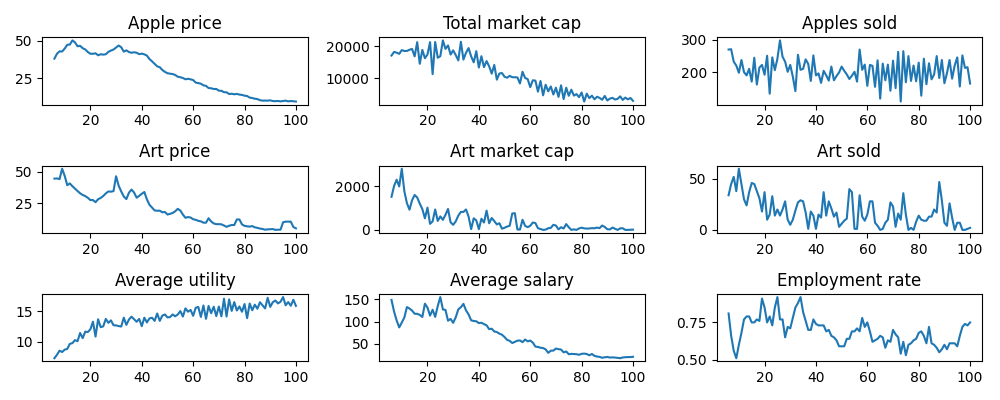
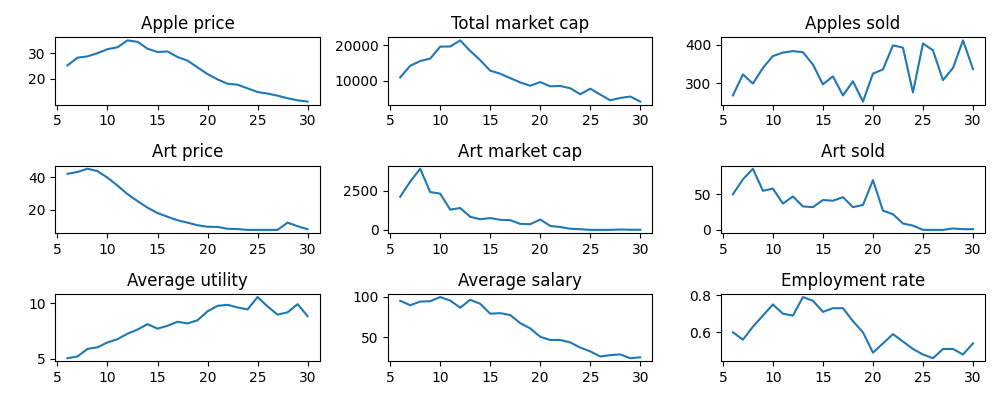
Edited cons + depr funcs, added construction pipeline

diff --git a/Agents.py b/Agents.py
@@ -5,33 +5,33 @@ class good():
 
     def __init__(self, ID, depreciation, consumption):
         self.ID = ID # ID of a good
-        self.depreciation = depreciation # depreciates goods over time
-        self.consumption = consumption
+        self.depr_rate = depreciation # depreciation rate
+        self.cons_rate = consumption # consumption rate
 
     def depreciate(self, quant):
-        return self.depreciation(quant)
+        eps = 0.000001
+        return max(0, quant - self.depr_rate * int(quant + 1 - eps)) # calculate # of goods, depreciate each of them
 
     def consume(self, quant):
-        return self.consumption(quant)
+        eps = 0.000001
+        return max(0, quant - self.cons_rate * int(quant + 1 - eps)) # calculate # of goods, consume each of them
 
 
 class goods_market():
 
-    def __init__(self, goods, consumers, producers):
+    def __init__(self):
         self.name = 'goods' # name of a market: "goods", "labor", "real estate", "stock exchange" etc
-        self.goods = goods
-        self.consumers = consumers
-        self.producers = producers
+        self.goods = None
+        self.consumers = None
+        self.producers = None
         self.spread = {} # stores sell offers: {good_ID: [(price, quantity, seller), ...]}
         self.trans_arch = {} # archieve of statistics of daily transactions: {time: {good_ID: (avg, std, min_price, max_price, items sold)}}
         self.trans_today = {} # transactions that happen today
-        for good_ID in self.goods: # DO NOT TOUCH THIS, it is needed to correctly start the simulation (look start_simulation)
-            self.trans_today[good_ID] = []
         self.census_ = None # census object is connected when census_ is initialized
     
     def __str__(self):
         return '-' * 10 + '\nGoods market print out:\n' + '\n'.join([key + ':\n' + str(val) for key, val in self.make_log().items()]) + '\n' + '-' * 10
-    
+
     def fake_data(self): # generate fake data for day 0
         for good_ID in self.goods:
             avg_price = 100 * r() + 10
@@ -133,13 +133,12 @@ class goods_market():
             'time': self.census_.time
         } for good_ID, prices in stat.items()]
 
-
 class labor_market():
 
-    def __init__(self, consumers, producers):
+    def __init__(self):
         self.name = 'labor' # name of a market: "goods", "labor", "real estate", "stock exchange" etc
-        self.consumers = consumers
-        self.producers = producers
+        self.consumers = None
+        self.producers = None
         self.census_ = None # census object is connected when census_ is initialized
 
     def reset_day(self):
@@ -175,14 +174,12 @@ class labor_market():
 
 class consumer():
     
-    def __init__(self, ID, util, cash, skill, goods):
+    def __init__(self, ID, util, cash, skill):
         self.ID = ID # ID of a consumer
-        self.goods = goods
+        self.goods = None
         self.util = util # {good_ID : #} -> utils (a function that takes dict of goods utility)
         self.cash = cash # cash assets
         self.stored_goods = {}
-        for name in self.goods:
-            self.stored_goods[name] = 0
         self.skill = skill # skill (relevant for the job); later would make it a vector instead to represent different skills
         self.job = None # the job position of the type optional (employer, salary)
         self.spent_today = 0
@@ -255,13 +252,10 @@ class consumer():
         self.cash += payment
         self.dividends += payment
 
-    def consume_goods(self): # for now we consume everything at once
-        to_consume = {}
+    def consume_goods(self): # consume all the goods
+        self.util_level = self.util(self.stored_goods)
         for good_ID, amount in self.stored_goods.items():
-            consumed, rest = self.goods[good_ID].consume(amount)
-            self.stored_goods[good_ID] = rest
-            to_consume[good_ID] = consumed
-        self.util_level = self.util(to_consume)
+            self.stored_goods[good_ID] = self.goods[good_ID].consume(amount)
     
     def depreciate_goods(self):
         for good_ID, amount in self.stored_goods.items():
@@ -310,14 +304,12 @@ class consumer():
 
 class producer():
 
-    def __init__(self, ID, start_cap, good_ID, productivity, components, owner, stocks, goods):
+    def __init__(self, ID, start_cap, good_ID, productivity, components, owner, stocks):
         self.ID = ID # company ID
         self.good_ID = good_ID # the good ID the company is producing
-        self.goods = goods
+        self.goods = None
         self.productivity = productivity # function that maps # of hours to the number of units produced
         self.stored_goods = {} # stored goods
-        for good_ID in self.goods:
-            self.stored_goods[good_ID] = 0
         self.cash = start_cap # the starting capital of the company
         self.components = components # {good_ID: #} -> number of each good needed to produce one unit of the desired good
         self.employees = {} # {consumer_ID: (consumer, salary)}
@@ -368,7 +360,9 @@ class producer():
         for good_ID in self.components:
             comp = self.components[good_ID]
             needed_comp = comp * num_units
-            self.stored_goods[good_ID] -= needed_comp
+            needed_comp_after_prod = self.goods[good_ID].consume(needed_comp)
+            delta = needed_comp - needed_comp_after_prod
+            self.stored_goods[good_ID] -= delta
         self.stored_goods[self.good_ID] += num_units
 
     def pay_salary(self): # pay salary to all current employees
@@ -381,6 +375,7 @@ class producer():
     def request_good_offer(self): # refer to consumer class function
         # THIS IS A GAME-PLAY FUNCTION
         # baseline -> excellent
+        eps = 0.000001
         ans = []
         prod_price = self.price_exp
         front_prod = self.productivity(self.total_skill)
@@ -393,7 +388,7 @@ class producer():
             must_have_after = must_have
             while self.goods[good_ID].depreciate(must_have_after + 1) < must_have: # as the good would get depreciate, keep that in mind!
                 must_have_after += 1
-            quant = int(must_have_after - self.stored_goods[good_ID] + 1 - 0.001)
+            quant = int(must_have_after - self.stored_goods[good_ID] + 1 - eps)
             if quant <= 0:
                 continue
             needed_quant[good_ID] = (quant, price)
@@ -469,7 +464,7 @@ class producer():
             if marginal_value < salary * 0.9: # we lose too much money on this employee! Fire them!
                 self.fire_employee(emp_ID)
         # hire new employees
-        for i in range(1, 10):
+        for i in sample(range(1, 10), 3):
             new_prod = self.productivity(self.total_skill + i)
             prod_change = new_prod - old_prod
             salary = prod_change * gross
@@ -502,8 +497,8 @@ class producer():
             cons.earn_dividends(payment)
 
     def depreciate_goods(self):
-        for good_ID in self.stored_goods:
-            self.stored_goods[good_ID] = self.goods[good_ID].depreciate(self.stored_goods[good_ID])
+        for good_ID, amount in self.stored_goods.items():
+            self.stored_goods[good_ID] = self.goods[good_ID].depreciate(amount)
 
     def calc_price_exp(self):
         # actual to ideal spending ratio
@@ -560,10 +555,23 @@ class census(): # meant to easily calculate any metrics for the market (to start
         # connect census_ to other objects
         for cons_ID, cons in consumers.items():
             cons.census_ = self
+            cons.goods = goods
         for prod_ID, prod in producers.items():
             prod.census_ = self
+            prod.goods = goods
         g_market.census_ = self
+        g_market.goods = goods
+        g_market.consumers = consumers
+        g_market.producers = producers
         l_market.census_ = self
+        l_market.consumers = consumers
+        l_market.producers = producers
+        for good_ID in goods: # it is needed to correctly start the simulation (look start_simulation)
+            g_market.trans_today[good_ID] = []
+            for cons_ID, cons in consumers.items():
+                cons.stored_goods[good_ID] = 0
+            for prod_ID, prod in producers.items():
+                prod.stored_goods[good_ID] = 0
 
     def __str__(self):
         return '-' * 10 + '\nCensus print out:\n' + '\n'.join([key + ':\n' + str(val) 
@@ -604,10 +612,8 @@ class simulation():
 
     def start_simulation(self): # some needed initializations before we start the simulation
         # creating dummy consumer and producer
-        bob = consumer(-1, lambda x: 0, 0, 0, self.goods)
-        tesla = producer(-1, 0, 'bruh', lambda x: 0, {}, bob, 10, self.goods)
-        bob.census_ = self.census_
-        tesla.census_ = self.census_
+        bob = self.consumers[0]
+        tesla = self.producers[0]
         # generating day zero fake data
         self.g_market.fake_data()
         # creating dataframes for logging

diff --git a/SimExamples.py b/SimExamples.py
@@ -1,0 +1,38 @@
+from AgentExamples import *
+from SimSetUp import sim_set_up
+
+def sim_set_up_1():
+
+    # CURRENT SIMULATION SET UP
+    # There are only three goods in the world: apples, pears, and art
+    # Apples and pears are completely consumed each round, whereas a piece of art is permenant
+    # There are two groups of people: people who do not love art, and people who enjoy art
+    # Their utility of apples and pears are similar
+    # However the utility of art for the first group is zero, whereas for the second one it is a scaled square root function
+    # The typical change in utility is:
+    # You consume one apple / pear -> increase by 1 util
+    # You consume one piece of art -> increase by 3 utils, then by 1.5 utils, then by 1.0 util and so on (diminishing value)
+    # There are ten companies producing each good, so we get a sustainable market
+    # Productivity function of apple / pear companies increase like this:
+    # 0 people -> 4.5 apples, 1 people -> 11 apples, 2 people -> 15.5 apples and so on (diminishing value of labor)
+    # For art companies (also, one apple needed to produce each art):
+    # 0 people -> 7.5 arts, 1 people -> 18.5 arts, 2 people -> 26 arts
+
+    sim_set_up(
+        [(good_consumable, 'apple'),
+        (good_permanent, 'art'),
+        (good_consumable, 'pear')],
+
+        [(50, consumer_linear_utility, {'apple': 1+0.1*r(), 'pear': 1+0.1*r()}),
+        (50, consumer_mixed_utility, {'apple': (1+0.1*r(), 'lin'), 'pear': (1+0.1*r(), 'lin'), 'art': (3+0.1*r(), 'sqrt')})],
+
+
+        [(10, producer_sqrt_productivity, 'apple', 7, {}, None),
+        (10, producer_sqrt_productivity, 'art', 4, {'apple': 1.0}, None),
+        (10, producer_sqrt_productivity, 'pear', 7, {}, None)],
+
+        30
+    )
+
+if __name__ == '__main__':
+    sim_set_up_1() # choose the simulation to run here

diff --git a/AgentExamples.py b/AgentExamples.py
@@ -1,0 +1,30 @@
+from Agents import good, consumer, producer, goods_market, labor_market, census, simulation
+
+from random import random as r
+
+def good_consumable(ID_name): # depreciates slowly, eveything is consumed at once
+    return good(ID_name, 0.05, 1.0)
+
+def good_permanent(ID_name): # does not depreciate, does not get consumed. Just a static good
+    return good(ID_name, 0.0, 0.0)
+
+def consumer_linear_utility(ID, preference): # preference is a dict {good_ID: utility coef}
+    return consumer(ID, lambda x: sum([preference[good_ID] * x[good_ID] for good_ID in preference]), 1000 + r() * 500, 1 + r() * 9)
+
+def consumer_quad_utility(ID, preference): # quadratic utility
+    return consumer(ID, lambda x: sum([preference[good_ID] * (x[good_ID]**0.5) for good_ID in preference]), 1000 + r() * 500, 1 + r() * 9)
+
+def consumer_mixed_utility(ID, preference): # preference is a dict{good_ID: (utility coef, depend_coef)}
+    def depend(num, good_ID): # user can easily add any other preference function here
+        pref_type = preference[good_ID][1]
+        if pref_type == 'lin':
+            return num
+        if pref_type == 'sqrt':
+            return num ** 0.5
+        if pref_type == 'quad':
+            return num ** 2
+    return consumer(ID, lambda x: sum([preference[good_ID][0] * depend(x[good_ID], good_ID) for good_ID in preference]), 
+                    1000 + r() * 500, 1 + r() * 9)
+
+def producer_sqrt_productivity(ID, good_ID, prod_coef, components, owner):
+    return producer(ID, 5000 + 1000 * r(), good_ID, lambda x: prod_coef * x**0.5, components, owner, 100)

diff --git a/SimSetUp.py b/SimSetUp.py
@@ -1,0 +1,41 @@
+from Agents import good, consumer, producer, goods_market, labor_market, census, simulation
+from AgentExamples import *
+
+from random import random as r, randint
+
+def sim_set_up(goods_list, cons_list, prod_list, rounds): # this function constructs all the agents and starts the simulation
+
+    # goods_list: [(good_type, good_name)]
+    # cons_list: [(num, cons_type, cons_pref)]
+    # prod_list: [num, prod_type, prod_good_ID, prod_coef, prod_comp, prod_owner]
+    # rounds: int (this is number of rounds in the simulation)
+
+    goods = {}
+    for good_type, good_name in goods_list:
+        goods[good_name] = good_type(good_name)
+
+    consumers = {}
+
+    ID = 0
+    for num, cons_type, cons_pref in cons_list:
+        for i in range(num):
+            consumers[ID] = cons_type(ID, cons_pref)
+            ID += 1
+    tot_consumers = ID
+
+    producers = {}
+
+    ID = 0
+    for num, prod_type, prod_good_ID, prod_coef, prod_comp, prod_owner in prod_list:
+        for i in range(num):
+            owner = consumers[randint(0, tot_consumers-1) if prod_owner == None else prod_owner]
+            producers[ID] = prod_type(ID, prod_good_ID, prod_coef, prod_comp, owner)
+            ID += 1
+    tot_producers = ID
+
+    goods_market_ = goods_market()
+    labor_market_ = labor_market()
+    census_ = census(goods, consumers, producers, goods_market_, labor_market_)
+
+    sim = simulation(consumers, producers, goods, goods_market_, labor_market_, census_)
+    sim.run(rounds)
